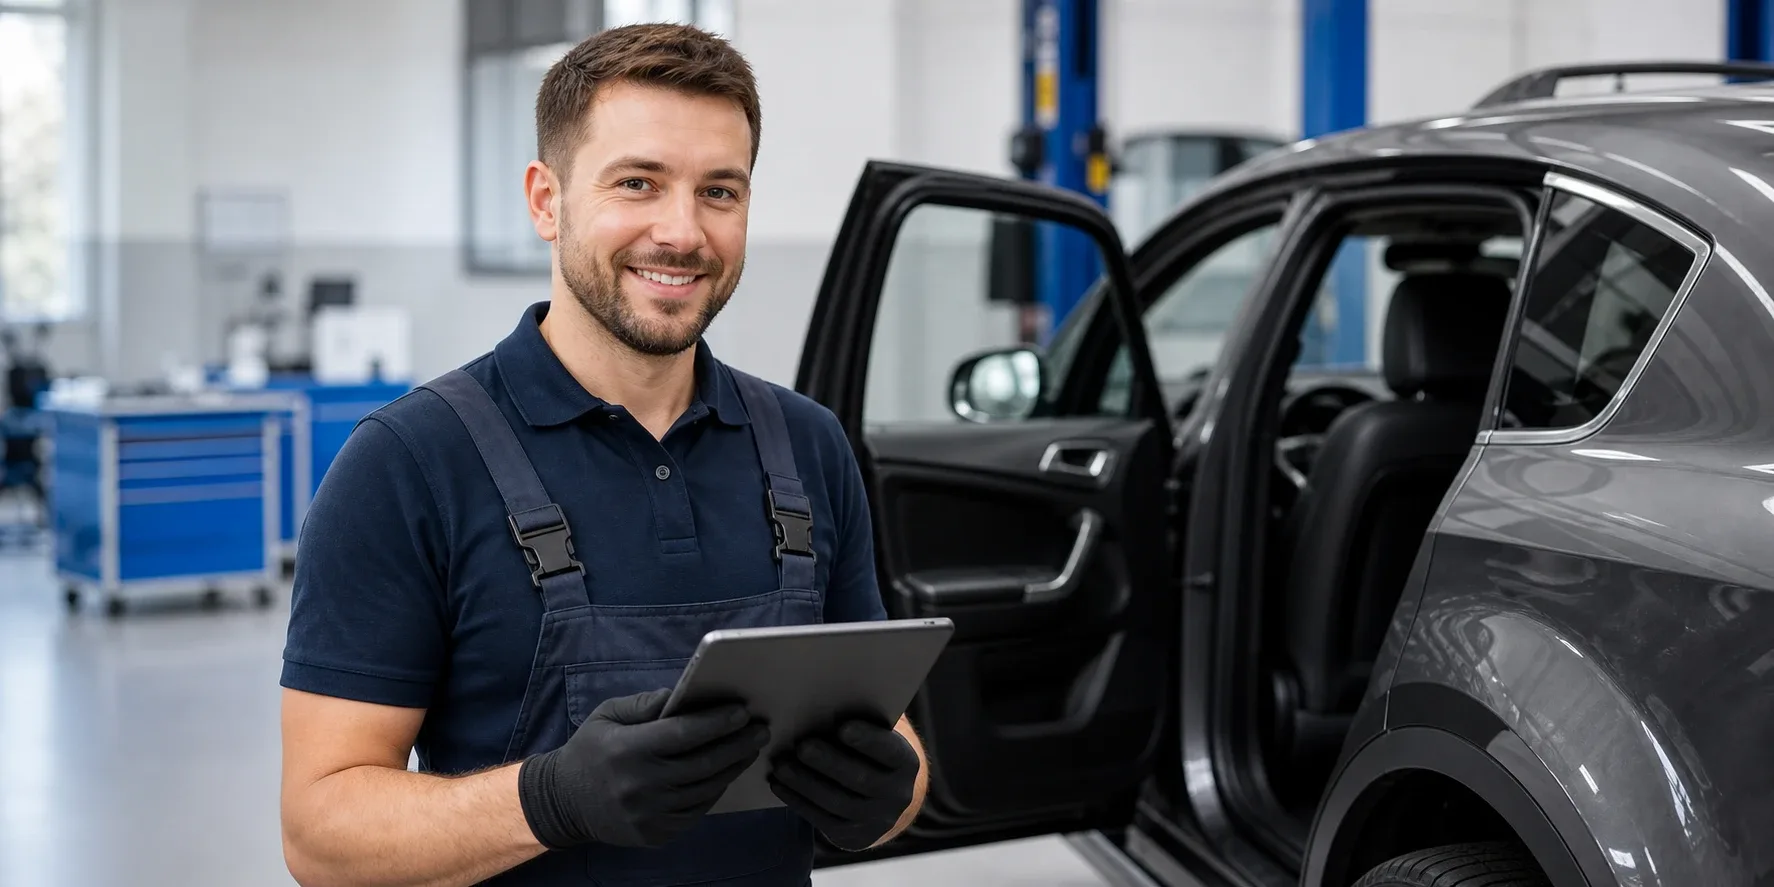
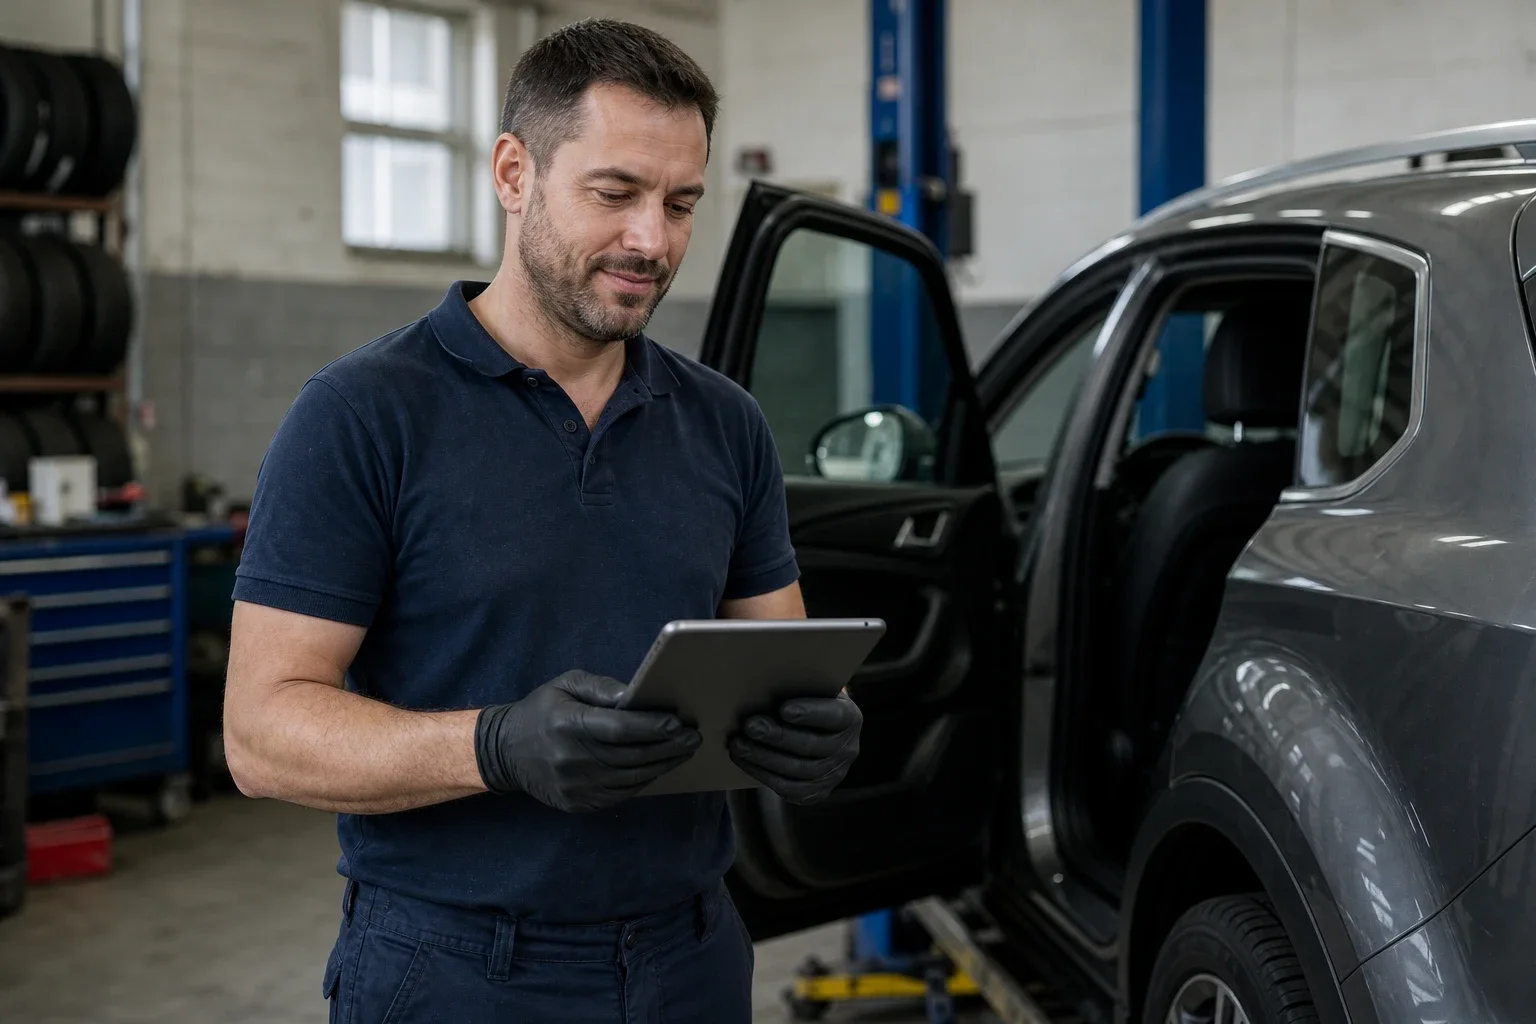
Демо шиномонтажа: новое фото мастера

diff --git a/demo-shinomontazh/index.html b/demo-shinomontazh/index.html
@@ -126,7 +126,7 @@ form .btn.main:hover{background:var(--blue-deep)}
 .ok{display:none;padding:20px;border-left:6px solid var(--blue);background:#fff}
 .ok.show{display:block}
 .card{background:#fff;border-radius:8px;overflow:hidden;box-shadow:0 1px 0 var(--line)}
-.card img{width:100%;aspect-ratio:4/3;object-fit:cover;object-position:35% 30%}
+.card img{width:100%;aspect-ratio:4/3;object-fit:cover;object-position:30% 20%}
 .card .t{padding:28px}
 .card .big{font-family:var(--head);font-stretch:118%;font-weight:800;font-size:25px;line-height:1.15;margin-bottom:10px}
 .card p{color:#4A5160}
